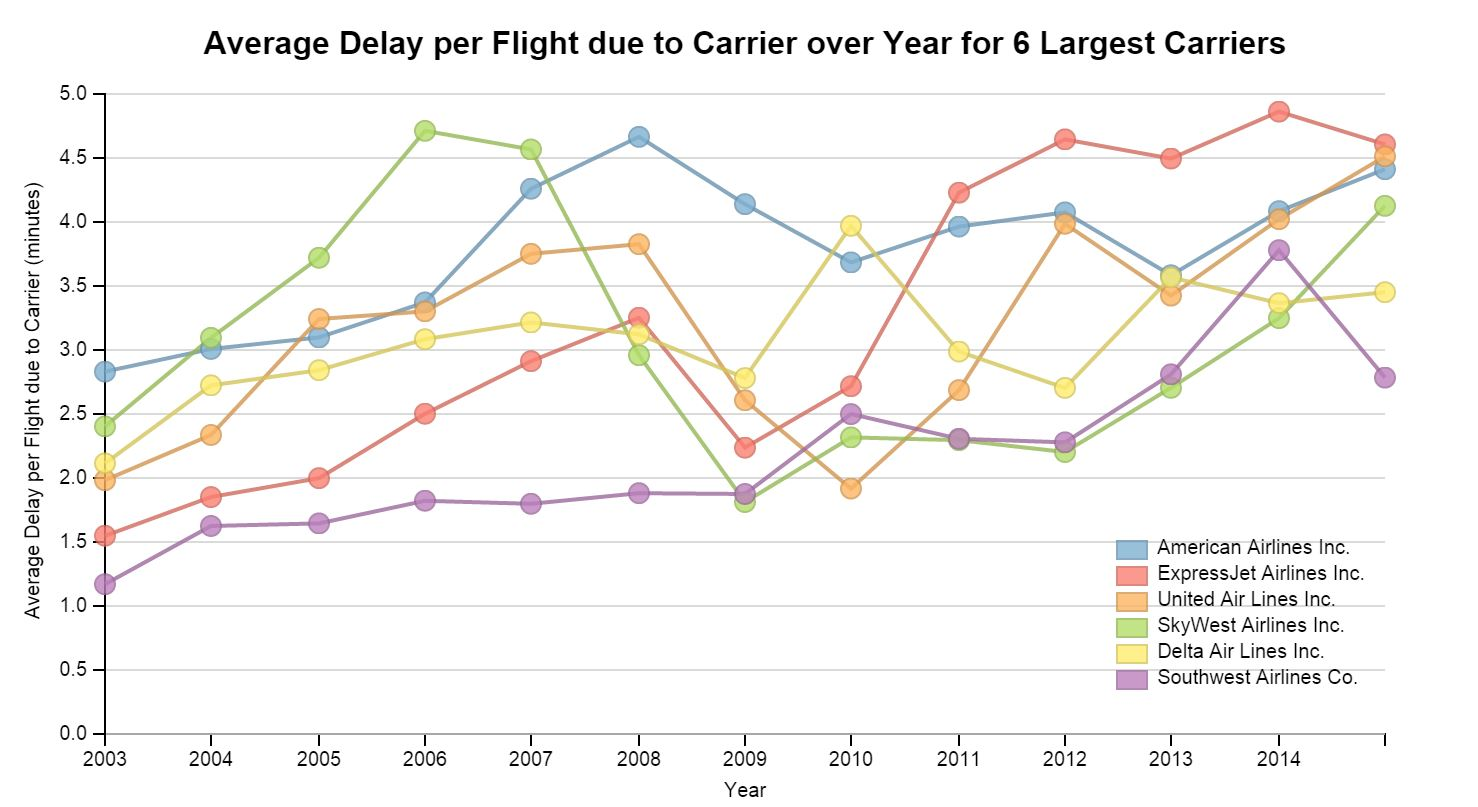
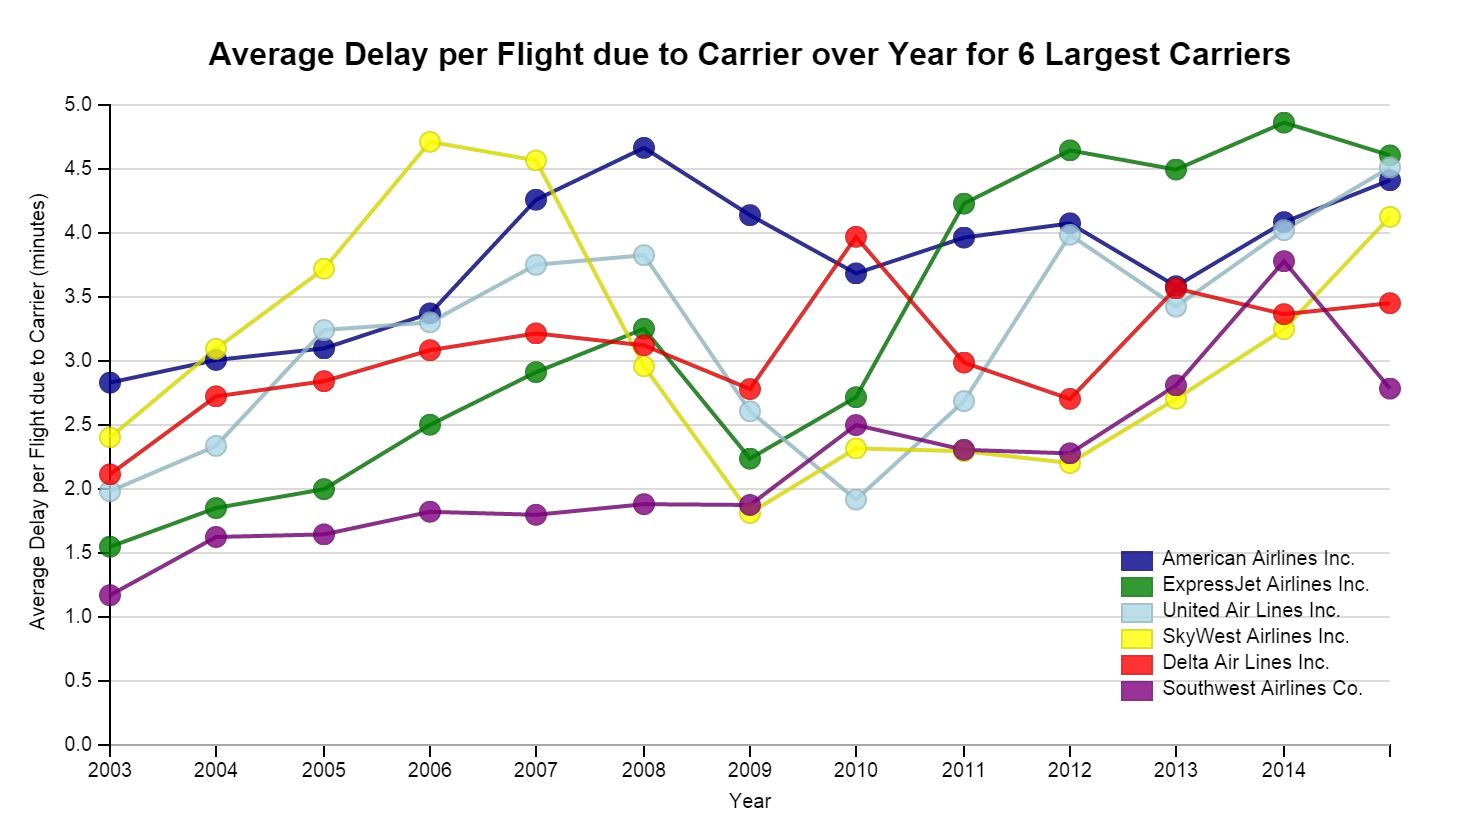
updating images after fixing colors for carriers

Changed region(s): [[0.0, 0.1239, 0.9863, 0.9913], [0.1233, 0.031, 0.8938, 0.0929], [0.0308, 0.0929, 0.0616, 0.1239]]

diff --git a/final-d3.html b/final-d3.html
@@ -1,0 +1,206 @@
+<!DOCTYPE html>
+<html>
+<head>
+  <meta charset="utf-8">
+  <script src="http://d3js.org/d3.v3.min.js"></script>
+  <script src="http://dimplejs.org/dist/dimple.v2.0.0.min.js"></script>
+    
+
+    <style>
+      h2 {
+        text-align: left;
+        -webkit-margin-start: 45px;
+      }
+    </style>
+    <script type="text/javascript">
+      
+
+
+      function draw(data) {
+      
+      /*
+        D3.js setup code
+      */
+
+          "use strict";
+          
+          var margin = 75,
+              width = 800 - margin,
+              height = 400 - margin;
+
+
+          d3.select('body')
+            .append('h2')
+            .text('Performance of 6 Largest U.S. Domestic Carriers from 2003 to 2015');
+          
+          function addText(svg, text1) {
+            svg.append("text")
+           .attr("x", chart._xPixels() + chart._widthPixels() / 2)
+           .attr("y", chart._yPixels() - 20)
+           .style("text-anchor", "middle")
+           .style("font-family", "sans-serif")
+           .style("font-weight", "bold")
+           .text(text1);
+
+          };
+          
+          var svg = d3.select("body")
+            .append("svg")
+              .attr("width", width + margin)
+              .attr("height", height + margin)
+            .append('g')
+                .attr('class','chart');
+
+          
+          
+      /*
+        Dimple.js Chart construction code
+      */
+          /*
+          var myChart = new dimple.chart(svg, data);
+          var x = myChart.addTimeAxis("x", "year"); 
+          x.tickFormat = "%Y"
+          myChart.addMeasureAxis("y", "arr_del15");
+          myChart.addSeries(null, dimple.plot.line);
+          myChart.addSeries(null, dimple.plot.scatter);
+          myChart.draw();
+          */
+
+          
+          var chart = new dimple.chart(svg, data);
+          var x = chart.addTimeAxis("x", "year"); 
+          x.tickFormat = "%Y";
+          x.title = 'Year';
+          
+          addText(svg, "Average Delay per Flight due to Carrier over Year for 6 Largest Carriers");
+
+          var y = chart.addMeasureAxis("y", "avg_carrier_delay");
+          y.title = "Average Delay per Flight due to Carrier (minutes)";
+          chart.addSeries("carrier_name", dimple.plot.line);
+          chart.addSeries("carrier_name", dimple.plot.scatter);
+          chart.assignColor("SkyWest Airlines Inc.", "blue");
+          chart.assignColor("Delta Air Lines Inc.", "red");
+          chart.assignColor("Southwest Airlines Co.", "yellow");
+          chart.assignColor("United Air Lines Inc.", "pink");
+          chart.assignColor("ExpressJet Airlines Inc.", "white");
+          chart.assignColor("American Airlines Inc.", "black", "black");
+          
+
+          chart.addLegend(width * .75, height * .81, width*0.25, 100, 'right');
+          chart.draw();
+
+          
+
+          var svg2 = d3.select("body")
+            .append("svg")
+              .attr("width", width + margin)
+              .attr("height", height + margin)
+            .append('g')
+                .attr('class','chart');
+
+          addText(svg2, "Average Arrival Delay per Flight over Year for 6 Largest Carriers");
+
+          var chart = new dimple.chart(svg2, data);
+          var x = chart.addTimeAxis("x", "year"); 
+          x.tickFormat = "%Y";
+          x.title = 'Year';
+          //chart.addCategoryAxis("x", "carrier_name");
+          var y = chart.addMeasureAxis("y", "avg_arr_delay");
+          y.title = "Average Delay per Flight (minutes)";
+          chart.addSeries("carrier_name", dimple.plot.line);
+          chart.addSeries("carrier_name", dimple.plot.scatter);
+          chart.addLegend(width * .75, height * .81, width*0.25, 100, 'right');
+          chart.draw();
+
+          var svg3 = d3.select("body")
+            .append("svg")
+              .attr("width", width + margin)
+              .attr("height", height + margin)
+            .append('g')
+                .attr('class','chart');
+
+          addText(svg3, "Percentage of On-Time Flights over Year for 6 Largest Carriers");
+
+          var chart = new dimple.chart(svg3, data);
+          var x = chart.addTimeAxis("x", "year"); 
+          x.tickFormat = "%Y";
+          x.title = 'Year';
+          //chart.addCategoryAxis("x", "carrier_name");
+          var y = chart.addMeasureAxis("y", "avg_ontime");
+          y.overrideMin = 60
+          y.title = "Percentage of On-Time Flights";
+          chart.addSeries("carrier_name", dimple.plot.line);
+          chart.addSeries("carrier_name", dimple.plot.scatter);
+          chart.addLegend(width * .75, height * .81, width*0.25, 100, 'right');
+          chart.draw();
+          
+          var svg4 = d3.select("body")
+            .append("svg")
+              .attr("width", width + margin)
+              .attr("height", height + margin)
+            .append('g')
+                .attr('class','chart');
+
+          addText(svg4, "Percentage of Late Flight due to Carrier over Year for 6 Largest Carriers");
+
+          var chart = new dimple.chart(svg4, data);
+          var x = chart.addTimeAxis("x", "year"); 
+          x.tickFormat = "%Y";
+          x.title = 'Year';
+          //chart.addCategoryAxis("x", "carrier_name");
+          var y = chart.addMeasureAxis("y", "avg_carrier_ct");
+          y.title = "Percentage of Delayed Flights due to Carrier";
+          chart.addSeries("carrier_name", dimple.plot.line);
+          chart.addSeries("carrier_name", dimple.plot.scatter);
+          chart.addLegend(width * .75, height * .81, width*0.25, 100, 'right');
+          chart.draw();
+
+          var svg5 = d3.select("body")
+            .append("svg")
+              .attr("width", width + margin)
+              .attr("height", height + margin)
+            .append('g')
+                .attr('class','chart');
+
+          addText(svg5, "Percentage of Delayed Flights over Year for 6 Largest Carriers");
+
+
+
+          var chart = new dimple.chart(svg5, data);
+          var x = chart.addTimeAxis("x", "year"); 
+          x.tickFormat = "%Y";
+          x.title = 'Year';
+          //chart.addCategoryAxis("x", "carrier_name");
+          var y = chart.addMeasureAxis("y", "avg_arr_del15");
+          y.title = "Percentage of Delayed Flights";
+          chart.addSeries("carrier_name", dimple.plot.line);
+          chart.addSeries("carrier_name", dimple.plot.scatter);
+          chart.assignColor("SkyWest Airlines Inc.", "blue");
+          chart.assignColor("Delta Air Lines Inc.", "red");
+          chart.assignColor("Southwest Airlines Co.", "yellow");
+
+          chart.addLegend(width * .75, height * .81, width*0.25, 100, 'right');
+          chart.draw();
+
+         
+
+        };
+      </script>
+  </head>
+<body>
+  <div class="container">
+    <div class="row">
+      <section id="content" class="col-md-12"></section>
+    </div>
+  </div>
+  <script type="text/javascript">
+  /*
+    Use D3 (not dimple.js) to load the TSV file
+    and pass the contents of it to the draw function
+    */
+  //d3.tsv("airline_delays.csv", draw);
+  
+  d3.csv(".\\data\\summary_airlines.csv", draw);
+  </script>
+</body>
+</html>
